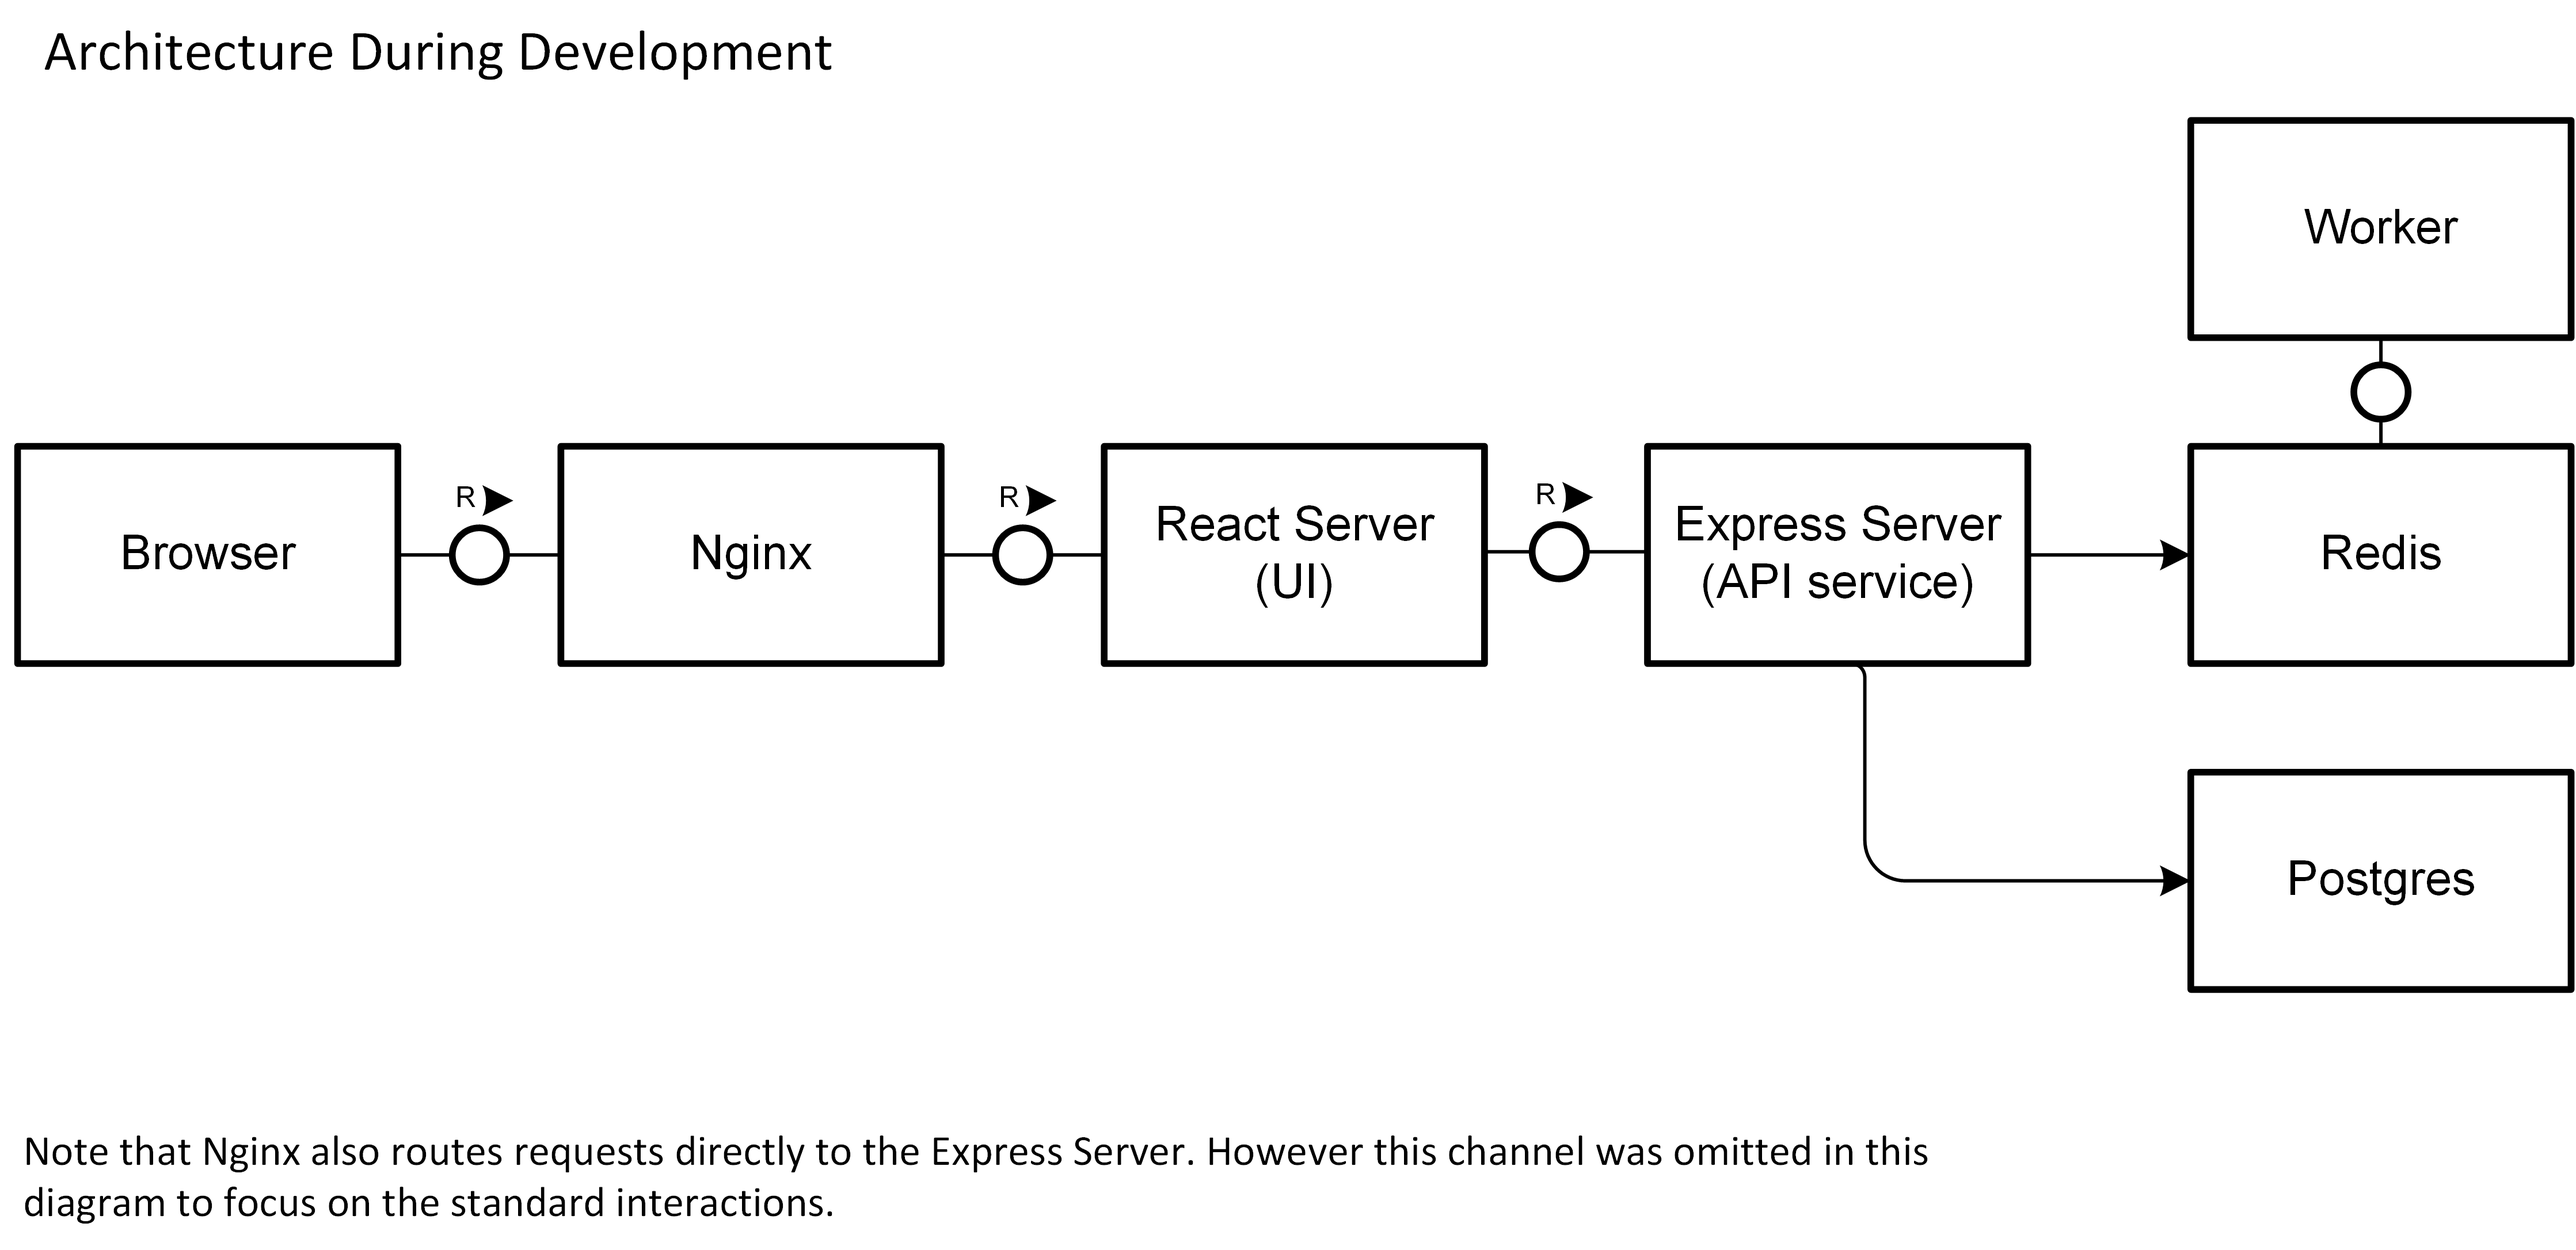
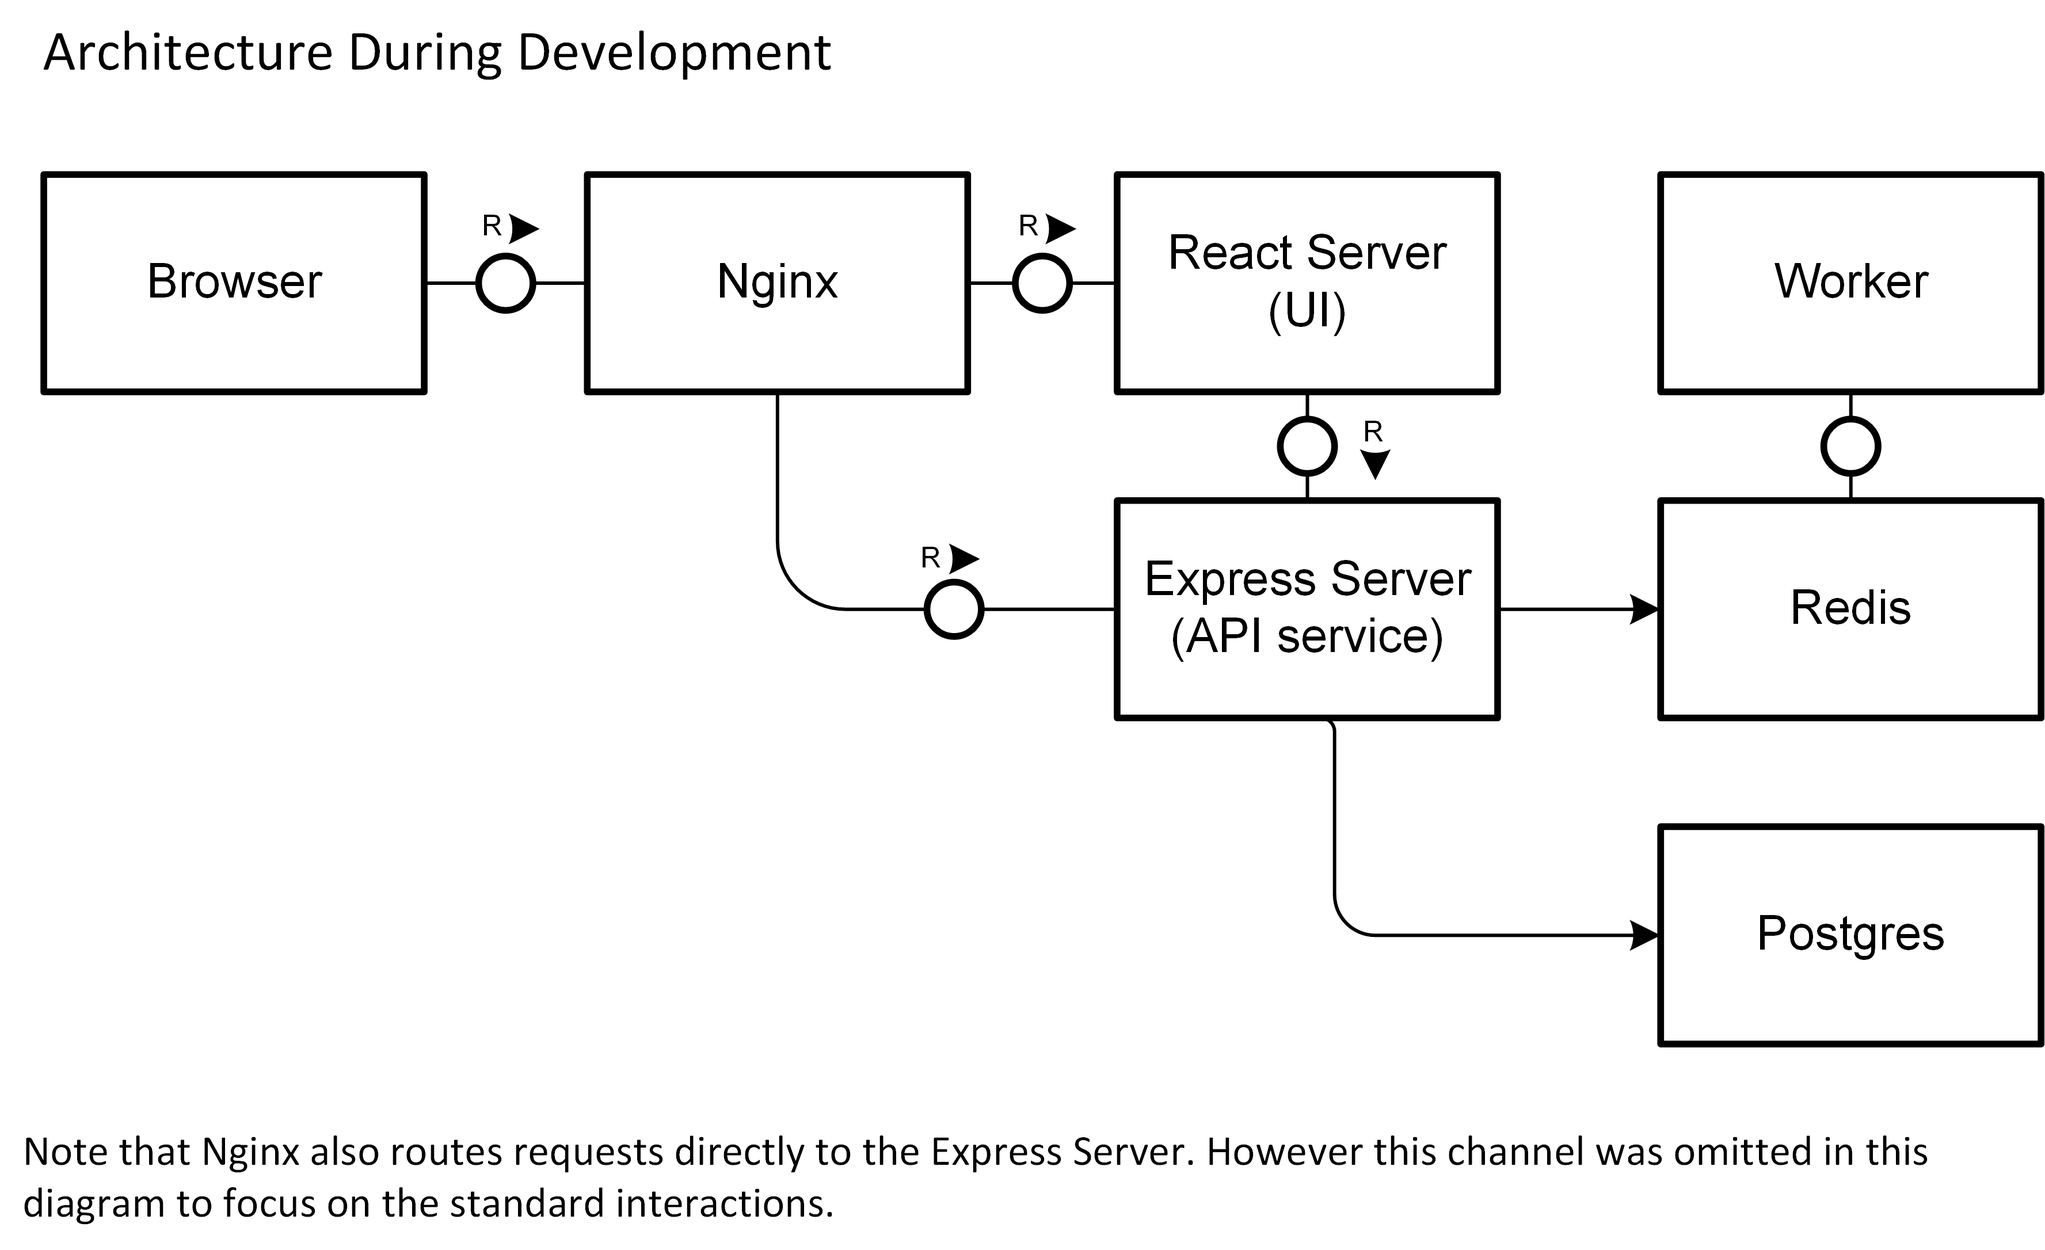
updated arch diagram; added docker more services

diff --git a/README.md b/README.md
@@ -2,13 +2,3 @@
 ![Architecture](architecture_diagram.png)
 # Docker Compose
 `docker-compose.yml` is currently configured to take in a the database secret via the start-up command.
-## Examples
-WINDOWS (Powershell)
-```
-$env:POSTGRES_PASSWORD="mypassword";docker-compose up
-```
-MAC / LINUX
-```
-POSTGRES_PASSWORD=mypassword docker-compose up
-```
-An alternative to providing secrets via the start command can be [docker secrets](https://docs.docker.com/compose/compose-file/#secrets).
